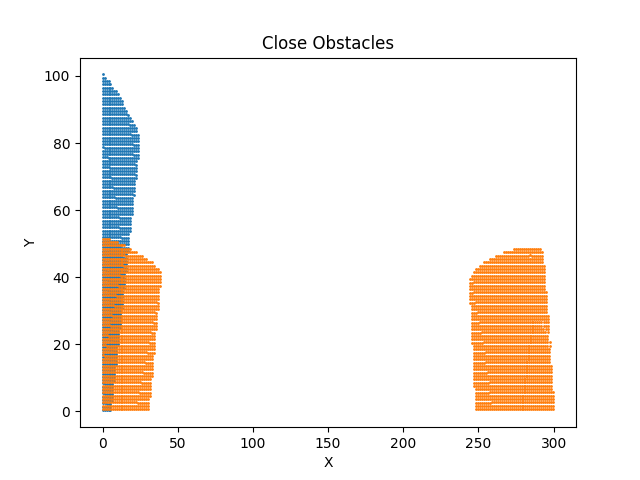
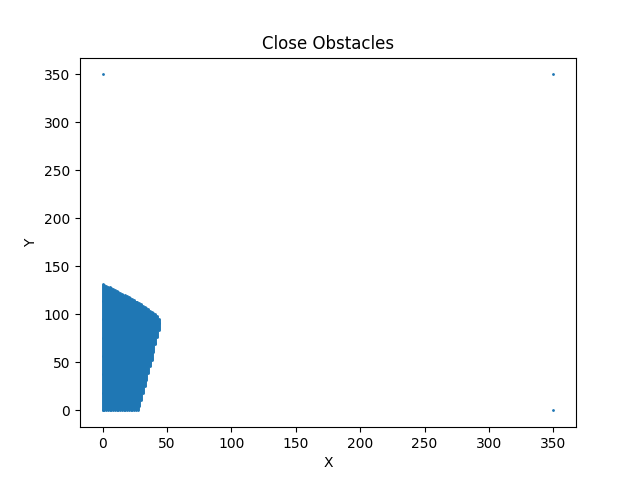
found optimal gaps!

diff --git a/cloud_driver.py b/cloud_driver.py
@@ -38,12 +38,15 @@ zone_depth = 10  # meters
 race_position = [0, 0, 0]  # [x, y, z]
 
 # Generate a random position within the zone
+
+
 def generate_random_position():
     x = random.uniform(race_position[0] + 2, race_position[0] + 2 + zone_depth)
     y = random.uniform(
         race_position[1] - zone_width/2, race_position[1] + zone_width/2)
     z = race_position[2] + 0.5  # Height of the cube
     return [x, y, z]
+
 
 num_cubes = 10  # Number of cubes to load
 box_shape = p.createCollisionShape(p.GEOM_CYLINDER, radius=0.4, height=1)
@@ -91,7 +94,6 @@ while (True):
         p.setJointMotorControl2(
             car, steer, p.POSITION_CONTROL, targetPosition=0)
 
-    
     # Localization
     pos, hquat = p.getBasePositionAndOrientation(car)
     h = p.getEulerFromQuaternion(hquat)
@@ -99,6 +101,7 @@ while (True):
     y = pos[1]
 
     if elapsed_time - last_process_time >= 2.0:
+        print(f"Frame {i}")
         # Point Cloud
         projection = np.array(proj_matrix).reshape(4, 4)
         fx = projection[0][0]
@@ -112,24 +115,74 @@ while (True):
         valid_mask = (z > 0)
         x = (u - cx) * z / fx
         y = (v - cy) * z / fy + 150
-        point_cloud = np.column_stack((x[valid_mask], y[valid_mask], 10000 - z[valid_mask] * 10000))
+        point_cloud = np.column_stack(
+            (x[valid_mask], y[valid_mask], 10000 - z[valid_mask] * 10000))
         obstacles = point_cloud[(point_cloud[:, 2] != 0) & (point_cloud[:, 1] > 0)]
 
         # Remove outliers
         closest_point = np.max(obstacles[:, 2])
-        car_buffer = 20
-        close_obstacles = obstacles[obstacles[:, 2] >= closest_point - car_buffer]
+        car_buffer = 40
+        close_obstacles = obstacles[obstacles[:, 2]
+                                    >= closest_point - car_buffer]
+
+        # End points
+        bl_point = np.array([0, 0, 70])
+        br_point = np.array([350, 0, 70])
+        tl_point = np.array([0, 350, 70])
+        tr_point = np.array([350, 350, 70])
+        # Append end points to the bottom of close_obstacles array
+        close_obstacles = np.vstack((close_obstacles, bl_point, br_point, tl_point, tr_point))
 
         # Make it 2d
+        plt.clf()
         plt.scatter(close_obstacles[:, 0], close_obstacles[:, 1], s=1)
         plt.xlabel('X')
         plt.ylabel('Y')
         plt.title('Close Obstacles')
         plt.savefig(f'pcd_images/pcd_{i}.png')
+        plt.imsave(f'depth_images/depth_img_{i}.png', depth)
+
+        # Determine gaps
+
+        def find_horizontal_gaps(map_points, threshold):
+            gaps = []
+
+            # Sort map_points based on x-coordinate
+            sorted_points = map_points[np.argsort(map_points[:, 0])]
+
+            for j in range(len(sorted_points) - 1):
+                curr_point = sorted_points[j]
+                next_point = sorted_points[j + 1]
+                gap_size = next_point[0] - curr_point[0]
+
+                if gap_size > threshold:
+                    gap_center = (curr_point[0] + next_point[0]) / 2
+                    gaps.append(np.array([gap_center, gap_size]))
+            return np.array(gaps)
+
+        gaps = find_horizontal_gaps(close_obstacles, 5)
+        if len(gaps) > 0:
+            boolean_gaps = np.where(gaps[:, 1] >= 70)
+
+            if len(boolean_gaps) > 0:
+                big_gaps = gaps[boolean_gaps]
+
+                closest_idx = np.argmin(np.abs(big_gaps[:, 0] - 175))
+
+                closest_center = big_gaps[closest_idx, 0]
+                closest_gap = big_gaps[closest_idx, 1]
+
+                print("Closest Center:", closest_center)
+                print("Closest Gap:", closest_gap)
+            else:
+                print("No gaps with a size of 100 or more found.")
+        else:
+            print("No horizontal gaps found.")
 
         # Update
         i += 1
         last_process_time = elapsed_time
+        print("\n\n")
 
     # Follow Robot With Camera
     p.resetDebugVisualizerCamera(
